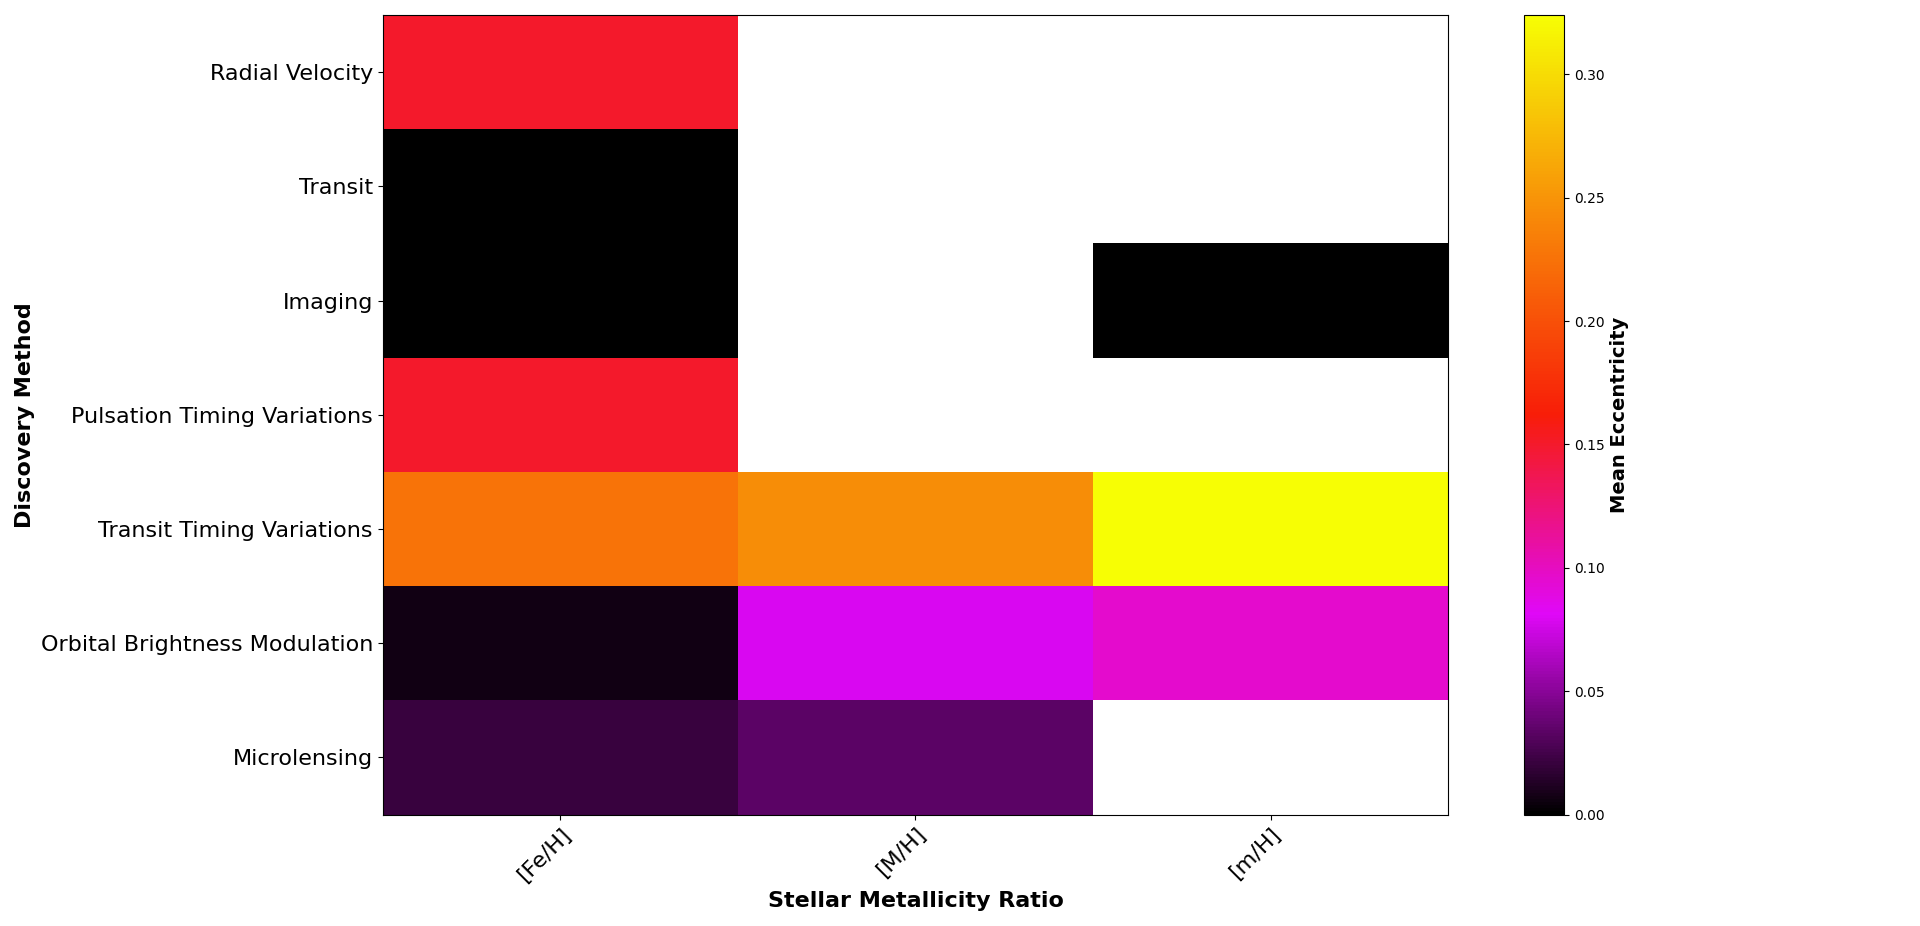
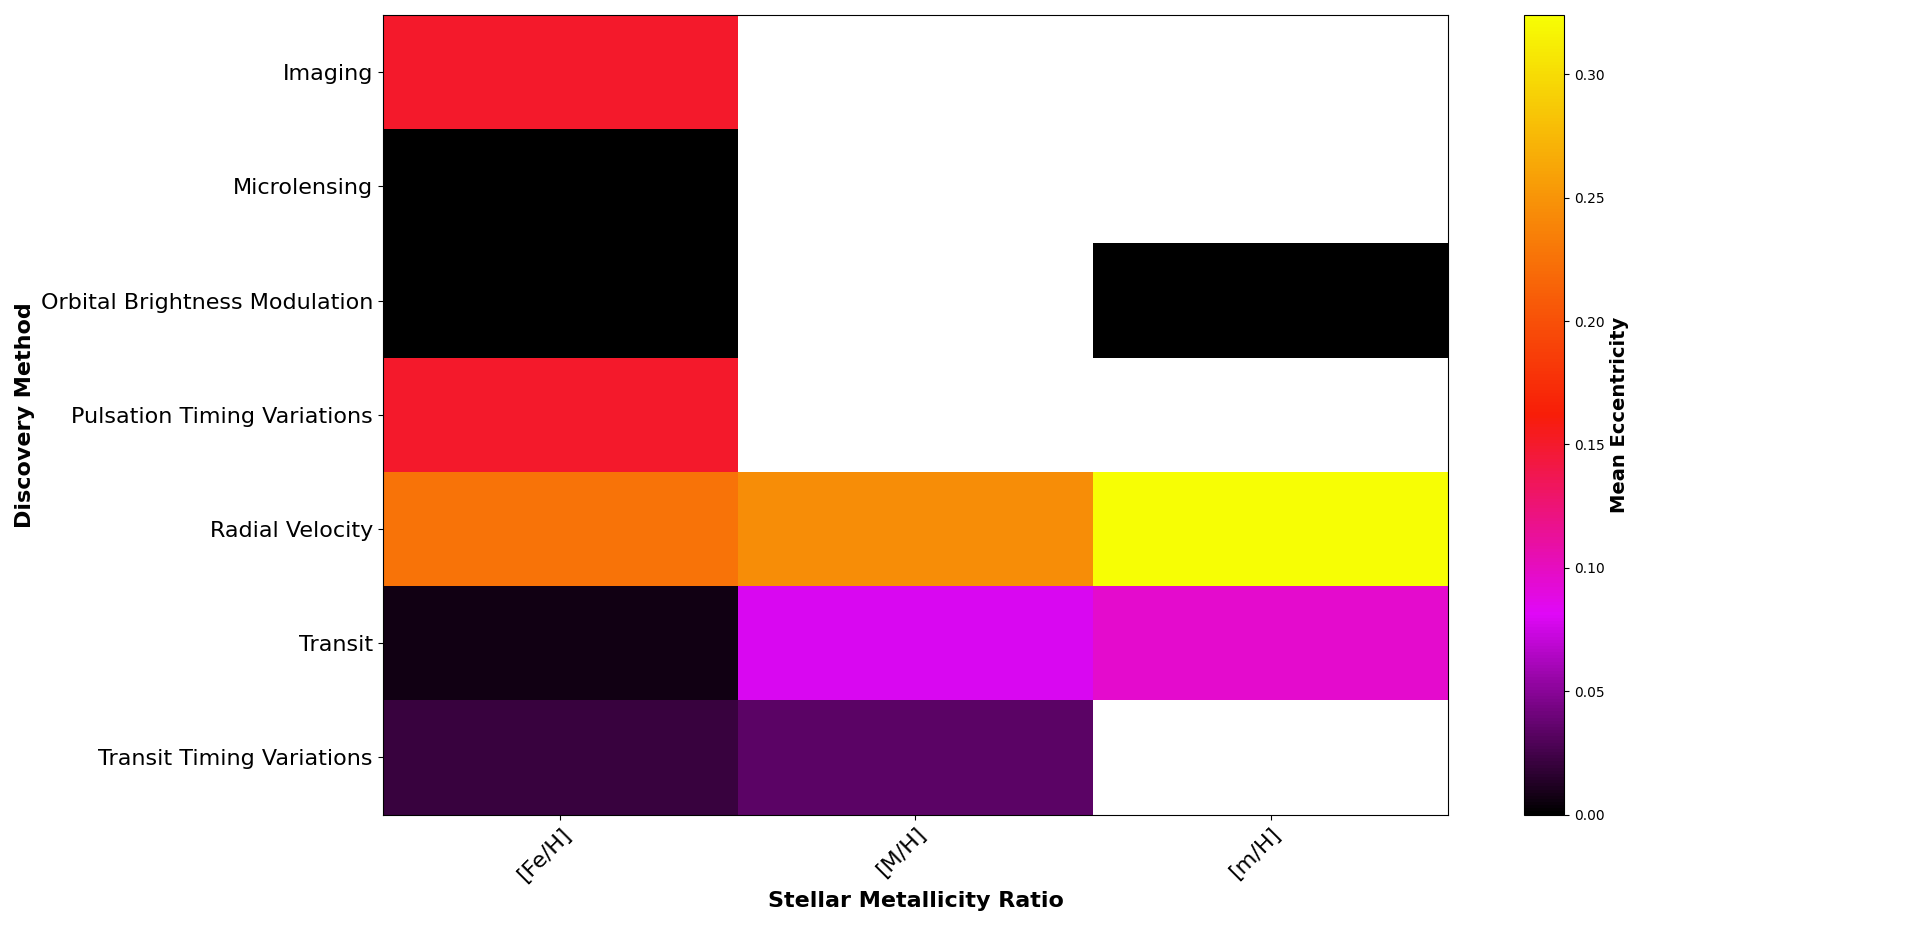
heatmap cat seaborn

diff --git a/Plot_types/Heatmap/Heatmap_Categoric/Heatmap_Categoric_Python_seaborn.py b/Plot_types/Heatmap/Heatmap_Categoric/Heatmap_Categoric_Python_seaborn.py
@@ -1,0 +1,77 @@
+
+# Paths:
+path_data = "data/"
+
+# Packages:
+import numpy as np
+import pandas as pd
+import seaborn as sns
+import matplotlib.pyplot as plt
+from matplotlib.colors import LinearSegmentedColormap, Colormap
+
+# Display options:
+pd.set_option("display.width", 1200)
+pd.set_option("display.max_columns", 300)
+pd.set_option("display.max_rows", 300)
+
+# Dataset:
+df = pd.read_csv(path_data + "nasa_exoplanets.csv")
+df_varnames = pd.read_csv(path_data + "nasa_exoplanets_var_names.csv")
+
+# Variables:
+x_var = "st_metratio"
+x_var_name = df_varnames.loc[(df_varnames["var"] == x_var), ["var_name"]].values[0][0]
+y_var = "discoverymethod"
+y_var_name = df_varnames.loc[(df_varnames["var"] == y_var), ["var_name"]].values[0][0]
+z_var = "pl_orbeccen"
+z_var_name = df_varnames.loc[(df_varnames["var"] == z_var), ["var_name"]].values[0][0]
+
+# Adapt the data:
+df_plot = df[[x_var, y_var, z_var]]
+df_plot = df_plot.dropna()
+df_plot = df_plot.reset_index(drop=True)
+z_vals = df_plot.pivot_table(index = y_var,
+                             columns = x_var,
+                             values = z_var,
+                             aggfunc = np.mean)
+x_vals = z_vals.columns.tolist()
+y_vals = z_vals.index.tolist()
+
+# Plot:
+my_colors = ["#000000", "#E008F8", "#F81D08", "#F88A08", "#F7FE04"]
+my_palette = LinearSegmentedColormap.from_list("my_palette", my_colors)
+
+fig, ax = plt.subplots(
+    figsize = (11, 10),
+    tight_layout = True
+)
+_ = sns.heatmap(
+    data = z_vals,
+    cbar = True,
+    cmap = my_palette,
+    cbar_kws = {"label": "Mean " + z_var_name},
+    ax = ax
+)
+_ = ax.set_xlabel(
+    x_var_name,
+    fontsize = 16,
+    fontweight = "bold"
+)
+_ = ax.set_ylabel(
+    y_var_name,
+    fontsize = 16,
+    fontweight = "bold"
+)
+_ = ax.tick_params(
+    axis = "x", 
+    which = "major", 
+    labelsize = 16
+)
+_ = ax.tick_params(
+    axis = "y", 
+    which = "major", 
+    labelsize = 16
+)
+
+
+

diff --git a/Plot_types/Heatmap/Heatmap_Categoric/Heatmap_Categoric_Python_matplotlib.py b/Plot_types/Heatmap/Heatmap_Categoric/Heatmap_Categoric_Python_matplotlib.py
@@ -29,12 +29,12 @@ z_var_name = df_varnames.loc[(df_varnames["var"] == z_var), ["var_name"]].values
 df_plot = df[[x_var, y_var, z_var]]
 df_plot = df_plot.dropna()
 df_plot = df_plot.reset_index(drop=True)
-x_vals = df_plot[x_var].unique().tolist()
-y_vals = df_plot[y_var].unique().tolist()
 z_vals = df_plot.pivot_table(index = y_var,
                              columns = x_var,
                              values = z_var,
-                             aggfunc = np.mean).values
+                             aggfunc = np.mean)
+x_vals = z_vals.columns.tolist()
+y_vals = z_vals.index.tolist()
 
 # Plot:
 my_colors = ["#000000", "#E008F8", "#F81D08", "#F88A08", "#F7FE04"]

diff --git a/Plot_types/Histogram/Histogram_2D/Histogram_2D_Python_seaborn.py b/Plot_types/Histogram/Histogram_2D/Histogram_2D_Python_seaborn.py
@@ -40,6 +40,7 @@ my_palette = sns.diverging_palette(h_neg = 278,
                                    sep = 1,
                                    center = "light",
                                    as_cmap = True)
+
 fig, ax = plt.subplots(
     figsize = (11, 10),
     tight_layout = True
